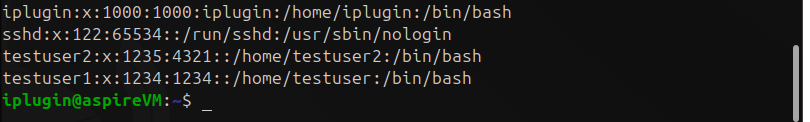
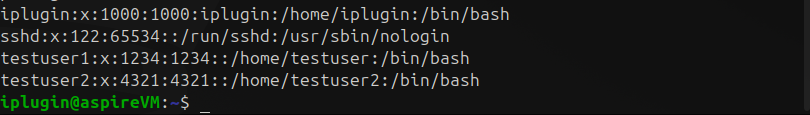
Fix hm1

diff --git a/hm1/README.md b/hm1/README.md
@@ -48,7 +48,7 @@ sudo useradd -u 1234 -s /bin/bash -g testgroup1 -m testuser
 
 - Add new user “testuser2” with UID 4321, Shell: /bin/bash, primary group = “testgroup2”, create homedir automatically.
 ``` Bash VM
-sudo useradd -g 4321 -s /bin/bash -g testgroup2 -m testuser2
+sudo useradd -u 4321 -s /bin/bash -g testgroup2 -m testuser2
 ```
 
 - Rename “testuser” to “testuser1”
